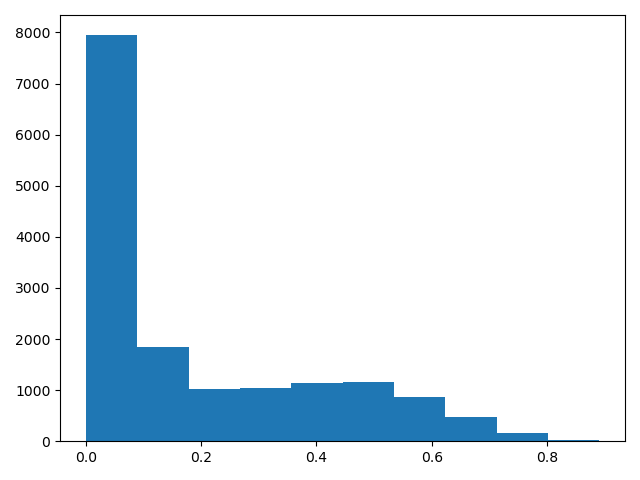
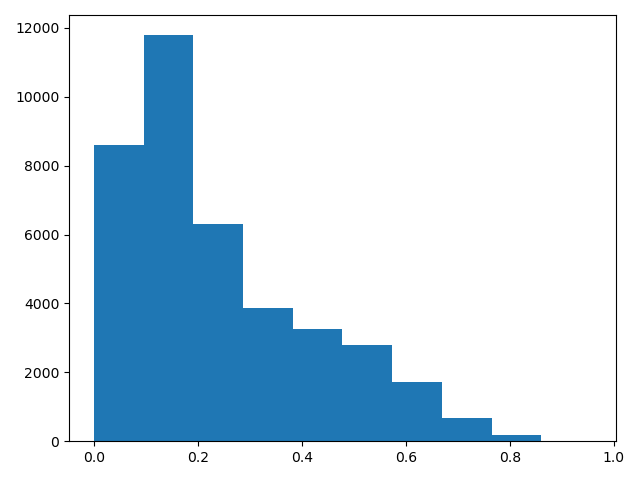
updates

diff --git a/mnist_multiple_exploration_tio2_v5.py b/mnist_multiple_exploration_tio2_v5.py
@@ -63,27 +63,27 @@ if __name__ == '__main__':
 		df.to_csv(log_dir+'test.csv', index=False)
 
 	parameters = dict(
-		vprog = [0]
+		vprog = [-0.25]
 		, amp_neuron=[1]
 		,input_nbr=[60000]
-		,tau_in = [0.2,0.06]
-		,tau_out = [0.06]
+		,tau_in = [0.06,0.1]
+		,tau_out = [0.06,0.1]
 		, lr = [1]
 		, iterations=[1]
-		, presentation_time = [0.35]
+		, presentation_time = [0.2]
 		, pause_time = [0]
-		, dt = [0.005]
+		, dt = [0.001]
 		, n_neurons = [20]
-		, inhibition_time = [10]
-		, tau_ref = [0.01]
+		, inhibition_time = [2,5]
+		, tau_ref = [0.002]
 		, synapse_layer_1=[None]
 		, winit_max = [1]
 		, vprog_increment = [0]
 		, voltage_clip_max=[1.8]
 		, voltage_clip_min = [-1.8]
-		, Vapp_multiplier = [2,1]
-		, gain_in = [2]
-		, bias_in = [0.4,0.6]
+		, Vapp_multiplier = [1,1.5,2]
+		, gain_in = [2,3,4]
+		, bias_in = [0.5,0.6,0.7,0.8]
 		, noise_input = [0]
 		, seed =[100]
     )
@@ -102,7 +102,7 @@ if __name__ == '__main__':
 		args.filename = 'vprog-'+str(args.vprog)+'amp_neuron'+str(args.amp_neuron)+'-tau_in-'+str(args.tau_in)+'-tau_out-'+str(args.tau_out)+'-lr-'+str(args.lr)+'-presentation_time-'+str(args.presentation_time)+'pause_time'+str(args.pause_time) + 'dt-'+str(args.dt)+'ref-'+str(args.tau_ref)+'gain-'+str(args.gain_in)+'bias_in'+str(args.bias_in)+'noise'+str(args.noise_input)+'Vapp_multiplier-'+str(args.Vapp_multiplier)+'winit_max'+str(args.winit_max)
 
 		timestr = time.strftime("%Y%m%d-%H%M%S")
-		log_file_name = 'accuracy_log'+str(timestr)+'.csv'
+		log_file_name = 'accuracy_log'+'.csv'
 		pwd = os.getcwd()
 
 		accuracy, accuracy_2,weights = evaluate_mnist_multiple_tio2(args)

diff --git a/mnist_multiple_exploration_tio2_v3.py b/mnist_multiple_exploration_tio2_v3.py
@@ -63,27 +63,27 @@ if __name__ == '__main__':
 		df.to_csv(log_dir+'test.csv', index=False)
 
 	parameters = dict(
-		vprog = [-0.25]
+		vprog = [-0.15]
 		, amp_neuron=[1]
 		,input_nbr=[60000]
-		,tau_in = [0.03]
-		,tau_out = [0.06]
+		,tau_in = [0.06,0.1]
+		,tau_out = [0.06,0.1]
 		, lr = [1]
 		, iterations=[1]
-		, presentation_time = [0.35]
+		, presentation_time = [0.2]
 		, pause_time = [0]
 		, dt = [0.005]
 		, n_neurons = [20]
 		, inhibition_time = [10]
-		, tau_ref = [0.01,0.002]
+		, tau_ref = [0.01,0.005]
 		, synapse_layer_1=[None]
-		, winit_max = [0.5]
+		, winit_max = [1]
 		, vprog_increment = [0]
 		, voltage_clip_max=[1.8]
 		, voltage_clip_min = [-1.8]
-		, Vapp_multiplier = [1,2]
-		, gain_in = [2]
-		, bias_in = [0.2,0.4,0.6]
+		, Vapp_multiplier = [1,1.5,2]
+		, gain_in = [2,3,4]
+		, bias_in = [0.5,0.6,0.7,0.8,1]
 		, noise_input = [0]
 		, seed =[100]
     )
@@ -102,7 +102,7 @@ if __name__ == '__main__':
 		args.filename = 'vprog-'+str(args.vprog)+'amp_neuron'+str(args.amp_neuron)+'-tau_in-'+str(args.tau_in)+'-tau_out-'+str(args.tau_out)+'-lr-'+str(args.lr)+'-presentation_time-'+str(args.presentation_time)+'pause_time'+str(args.pause_time) + 'dt-'+str(args.dt)+'ref-'+str(args.tau_ref)+'gain-'+str(args.gain_in)+'bias_in'+str(args.bias_in)+'noise'+str(args.noise_input)+'Vapp_multiplier-'+str(args.Vapp_multiplier)+'winit_max'+str(args.winit_max)
 
 		timestr = time.strftime("%Y%m%d-%H%M%S")
-		log_file_name = 'accuracy_log'+str(timestr)+'.csv'
+		log_file_name = 'accuracy_log'+'.csv'
 		pwd = os.getcwd()
 
 		accuracy, accuracy_2,weights = evaluate_mnist_multiple_tio2(args)

diff --git a/mnist_multiple_exploration_tio2_v4.py b/mnist_multiple_exploration_tio2_v4.py
@@ -63,27 +63,27 @@ if __name__ == '__main__':
 		df.to_csv(log_dir+'test.csv', index=False)
 
 	parameters = dict(
-		vprog = [-0.25]
-		, amp_neuron=[1]
+		vprog = [-0.15]
+		, amp_neuron=[0.75,1.25]
 		,input_nbr=[60000]
-		,tau_in = [0.2,0.1]
-		,tau_out = [0.06]
+		,tau_in = [0.06,0.1]
+		,tau_out = [0.06,0.1]
 		, lr = [1]
 		, iterations=[1]
-		, presentation_time = [0.35]
+		, presentation_time = [0.2]
 		, pause_time = [0]
 		, dt = [0.005]
 		, n_neurons = [20]
 		, inhibition_time = [10]
-		, tau_ref = [0.01]
+		, tau_ref = [0.01,0.005]
 		, synapse_layer_1=[None]
 		, winit_max = [1]
 		, vprog_increment = [0]
 		, voltage_clip_max=[1.8]
 		, voltage_clip_min = [-1.8]
-		, Vapp_multiplier = [2,1]
-		, gain_in = [2]
-		, bias_in = [0.4,0.6]
+		, Vapp_multiplier = [1,1.5,2]
+		, gain_in = [2,3,4]
+		, bias_in = [0.5,0.6,0.7,0.8,1]
 		, noise_input = [0]
 		, seed =[100]
     )
@@ -102,7 +102,7 @@ if __name__ == '__main__':
 		args.filename = 'vprog-'+str(args.vprog)+'amp_neuron'+str(args.amp_neuron)+'-tau_in-'+str(args.tau_in)+'-tau_out-'+str(args.tau_out)+'-lr-'+str(args.lr)+'-presentation_time-'+str(args.presentation_time)+'pause_time'+str(args.pause_time) + 'dt-'+str(args.dt)+'ref-'+str(args.tau_ref)+'gain-'+str(args.gain_in)+'bias_in'+str(args.bias_in)+'noise'+str(args.noise_input)+'Vapp_multiplier-'+str(args.Vapp_multiplier)+'winit_max'+str(args.winit_max)
 
 		timestr = time.strftime("%Y%m%d-%H%M%S")
-		log_file_name = 'accuracy_log'+str(timestr)+'.csv'
+		log_file_name = 'accuracy_log'+'.csv'
 		pwd = os.getcwd()
 
 		accuracy, accuracy_2,weights = evaluate_mnist_multiple_tio2(args)

diff --git a/mnist_multiple_exploration_tio2_v2.py b/mnist_multiple_exploration_tio2_v2.py
@@ -63,27 +63,27 @@ if __name__ == '__main__':
 		df.to_csv(log_dir+'test.csv', index=False)
 
 	parameters = dict(
-		vprog = [0]
-		, amp_neuron=[1]
+		vprog = [-0.25]
+		, amp_neuron=[1.5,0.75]
 		,input_nbr=[60000]
-		,tau_in = [0.06]
-		,tau_out = [0.06]
+		,tau_in = [0.06,0.1]
+		,tau_out = [0.06,0.1]
 		, lr = [1]
 		, iterations=[1]
-		, presentation_time = [0.35]
+		, presentation_time = [0.2]
 		, pause_time = [0]
 		, dt = [0.005]
 		, n_neurons = [20]
 		, inhibition_time = [10]
-		, tau_ref = [0.01,0.002]
+		, tau_ref = [0.01,0.005]
 		, synapse_layer_1=[None]
 		, winit_max = [1]
 		, vprog_increment = [0]
 		, voltage_clip_max=[1.8]
 		, voltage_clip_min = [-1.8]
-		, Vapp_multiplier = [1,2]
-		, gain_in = [2]
-		, bias_in = [0.4,0.6]
+		, Vapp_multiplier = [1,1.5,2]
+		, gain_in = [2,3,4]
+		, bias_in = [0.6,0.7,0.8]
 		, noise_input = [0]
 		, seed =[100]
     )
@@ -102,7 +102,7 @@ if __name__ == '__main__':
 		args.filename = 'vprog-'+str(args.vprog)+'amp_neuron'+str(args.amp_neuron)+'-tau_in-'+str(args.tau_in)+'-tau_out-'+str(args.tau_out)+'-lr-'+str(args.lr)+'-presentation_time-'+str(args.presentation_time)+'pause_time'+str(args.pause_time) + 'dt-'+str(args.dt)+'ref-'+str(args.tau_ref)+'gain-'+str(args.gain_in)+'bias_in'+str(args.bias_in)+'noise'+str(args.noise_input)+'Vapp_multiplier-'+str(args.Vapp_multiplier)+'winit_max'+str(args.winit_max)
 
 		timestr = time.strftime("%Y%m%d-%H%M%S")
-		log_file_name = 'accuracy_log'+str(timestr)+'.csv'
+		log_file_name = 'accuracy_log'+'.csv'
 		pwd = os.getcwd()
 
 		accuracy, accuracy_2,weights = evaluate_mnist_multiple_tio2(args)

diff --git a/mnist_multiple_exploration_tio2_v6.py b/mnist_multiple_exploration_tio2_v6.py
@@ -64,26 +64,26 @@ if __name__ == '__main__':
 
 	parameters = dict(
 		vprog = [-0.25]
-		, amp_neuron=[1]
+		, amp_neuron=[0.5]
 		,input_nbr=[60000]
-		,tau_in = [0.2,0.06]
-		,tau_out = [0.1,0.2]
+		,tau_in = [0.06,0.1]
+		,tau_out = [0.06,0.1]
 		, lr = [1]
 		, iterations=[1]
-		, presentation_time = [0.35]
+		, presentation_time = [0.2]
 		, pause_time = [0]
-		, dt = [0.005]
+		, dt = [0.001]
 		, n_neurons = [20]
-		, inhibition_time = [10]
-		, tau_ref = [0.01,0.002]
+		, inhibition_time = [2,5]
+		, tau_ref = [0.002]
 		, synapse_layer_1=[None]
 		, winit_max = [1]
 		, vprog_increment = [0]
 		, voltage_clip_max=[1.8]
 		, voltage_clip_min = [-1.8]
-		, Vapp_multiplier = [2,1]
-		, gain_in = [2]
-		, bias_in = [0.5,0.4,0.6]
+		, Vapp_multiplier = [1,1.5,2]
+		, gain_in = [2,3,4]
+		, bias_in = [0.5,0.6,0.7,0.8]
 		, noise_input = [0]
 		, seed =[100]
     )
@@ -102,7 +102,7 @@ if __name__ == '__main__':
 		args.filename = 'vprog-'+str(args.vprog)+'amp_neuron'+str(args.amp_neuron)+'-tau_in-'+str(args.tau_in)+'-tau_out-'+str(args.tau_out)+'-lr-'+str(args.lr)+'-presentation_time-'+str(args.presentation_time)+'pause_time'+str(args.pause_time) + 'dt-'+str(args.dt)+'ref-'+str(args.tau_ref)+'gain-'+str(args.gain_in)+'bias_in'+str(args.bias_in)+'noise'+str(args.noise_input)+'Vapp_multiplier-'+str(args.Vapp_multiplier)+'winit_max'+str(args.winit_max)
 
 		timestr = time.strftime("%Y%m%d-%H%M%S")
-		log_file_name = 'accuracy_log'+str(timestr)+'.csv'
+		log_file_name = 'accuracy_log'+'.csv'
 		pwd = os.getcwd()
 
 		accuracy, accuracy_2,weights = evaluate_mnist_multiple_tio2(args)

diff --git a/mnist_multiple_exploration_tio2_v7.py b/mnist_multiple_exploration_tio2_v7.py
@@ -64,26 +64,26 @@ if __name__ == '__main__':
 
 	parameters = dict(
 		vprog = [-0.25]
-		, amp_neuron=[1]
+		, amp_neuron=[0.5]
 		,input_nbr=[60000]
-		,tau_in = [0.1]
-		,tau_out = [0.12,0.06]
+		,tau_in = [0.06,0.1]
+		,tau_out = [0.06,0.1]
 		, lr = [1]
 		, iterations=[1]
-		, presentation_time = [0.35]
+		, presentation_time = [0.2]
 		, pause_time = [0]
 		, dt = [0.005]
 		, n_neurons = [20]
 		, inhibition_time = [10]
 		, tau_ref = [0.01]
-		, synapse_layer_1=[None]
+		, synapse_layer_1=[0.004]
 		, winit_max = [1]
 		, vprog_increment = [0]
 		, voltage_clip_max=[1.8]
 		, voltage_clip_min = [-1.8]
-		, Vapp_multiplier = [2,1]
-		, gain_in = [2]
-		, bias_in = [0.5,0.4,0.6]
+		, Vapp_multiplier = [1,1.5,2]
+		, gain_in = [2,3,4]
+		, bias_in = [0.5,0.6,0.7,0.8]
 		, noise_input = [0]
 		, seed =[100]
     )
@@ -102,7 +102,7 @@ if __name__ == '__main__':
 		args.filename = 'vprog-'+str(args.vprog)+'amp_neuron'+str(args.amp_neuron)+'-tau_in-'+str(args.tau_in)+'-tau_out-'+str(args.tau_out)+'-lr-'+str(args.lr)+'-presentation_time-'+str(args.presentation_time)+'pause_time'+str(args.pause_time) + 'dt-'+str(args.dt)+'ref-'+str(args.tau_ref)+'gain-'+str(args.gain_in)+'bias_in'+str(args.bias_in)+'noise'+str(args.noise_input)+'Vapp_multiplier-'+str(args.Vapp_multiplier)+'winit_max'+str(args.winit_max)
 
 		timestr = time.strftime("%Y%m%d-%H%M%S")
-		log_file_name = 'accuracy_log'+str(timestr)+'.csv'
+		log_file_name = 'accuracy_log'+'.csv'
 		pwd = os.getcwd()
 
 		accuracy, accuracy_2,weights = evaluate_mnist_multiple_tio2(args)

diff --git a/utilis.py b/utilis.py
@@ -192,7 +192,7 @@ class MyLIF_in(LIFRate):
         voltage -= (J - voltage) * np.expm1(-delta_t / tau_rc)
 
         # determine which neurons spiked (set them to 1/dt, else 0)
-        spiked_mask = voltage > 1
+        spiked_mask = voltage > 1.8
         output[:] = spiked_mask * (self.amplitude / dt)
 
         # set v(0) = 1 and solve for t to compute the spike time
@@ -203,7 +203,7 @@ class MyLIF_in(LIFRate):
         # set spiked voltages to zero, refractory times to tau_ref, and
         # rectify negative voltages to a floor of min_voltage
         voltage[voltage < min_voltage] = min_voltage
-        voltage[spiked_mask] = -1 #reset voltage
+        voltage[spiked_mask] = -1.8 #reset voltage
         refractory_time[spiked_mask] = self.tau_ref + t_spike
 
 def plan_MyLIF_in(
@@ -730,7 +730,7 @@ class CustomRule_post_v2_tio2(nengo.Process):
 
             post_out_matrix = np.reshape(post_out, (shape_out[0], 1))
 
-            self.w = np.clip((self.w + dt*(fun_post_tio2((self.w,vmem*1.8, self.vprog, self.vthp,self.vthn,self.voltage_clip_max,self.voltage_clip_min,self.Vapp_multiplier),*popt_tio2))*post_out_matrix*self.lr), 0, 1)
+            self.w = np.clip((self.w + dt*(fun_post_tio2((self.w,vmem, self.vprog, self.vthp,self.vthn,self.voltage_clip_max,self.voltage_clip_min,self.Vapp_multiplier),*popt_tio2))*post_out_matrix*self.lr), 0, 1)
 
             post_spiked = post_out_matrix*dt
             self.vprog += post_spiked*self.vprog_increment

diff --git a/mnist_multiple_exploration_tio2_v1.py b/mnist_multiple_exploration_tio2_v1.py
@@ -66,24 +66,24 @@ if __name__ == '__main__':
 		vprog = [-0.25]
 		, amp_neuron=[1]
 		,input_nbr=[60000]
-		,tau_in = [0.06]
-		,tau_out = [0.06]
+		,tau_in = [0.06,0.1]
+		,tau_out = [0.06,0.1]
 		, lr = [1]
 		, iterations=[1]
-		, presentation_time = [0.35]
+		, presentation_time = [0.2]
 		, pause_time = [0]
 		, dt = [0.005]
 		, n_neurons = [20]
 		, inhibition_time = [10]
-		, tau_ref = [0.01]
+		, tau_ref = [0.01,0.005]
 		, synapse_layer_1=[None]
 		, winit_max = [1]
 		, vprog_increment = [0]
 		, voltage_clip_max=[1.8]
 		, voltage_clip_min = [-1.8]
-		, Vapp_multiplier = [1,2]
-		, gain_in = [2]
-		, bias_in = [0.4,0.6]
+		, Vapp_multiplier = [1,1.5,2]
+		, gain_in = [2,3,4]
+		, bias_in = [0.5,0.6,0.7,0.8]
 		, noise_input = [0]
 		, seed =[100]
     )

diff --git a/mnist_vdsp_multiple_tio2.py b/mnist_vdsp_multiple_tio2.py
@@ -72,7 +72,7 @@ def evaluate_mnist_multiple_tio2(args):
             "bias":nengo.dists.Choice([args.bias_in]),
             # "noise":nengo.processes.WhiteNoise(dist=nengo.dists.Gaussian(args.noise_input, (args.noise_input/2)+0.00001), seed=1), 
 
-            "neuron_type":MyLIF_in(tau_rc=args.tau_in,min_voltage=-1, amplitude=args.amp_neuron, tau_ref=args.tau_ref)
+            "neuron_type":MyLIF_in(tau_rc=args.tau_in,min_voltage=-1.8, amplitude=args.amp_neuron, tau_ref=args.tau_ref)
             # "neuron_type":nengo.neurons.SpikingRectifiedLinear()#SpikingRelu neuron. 
     }
 
